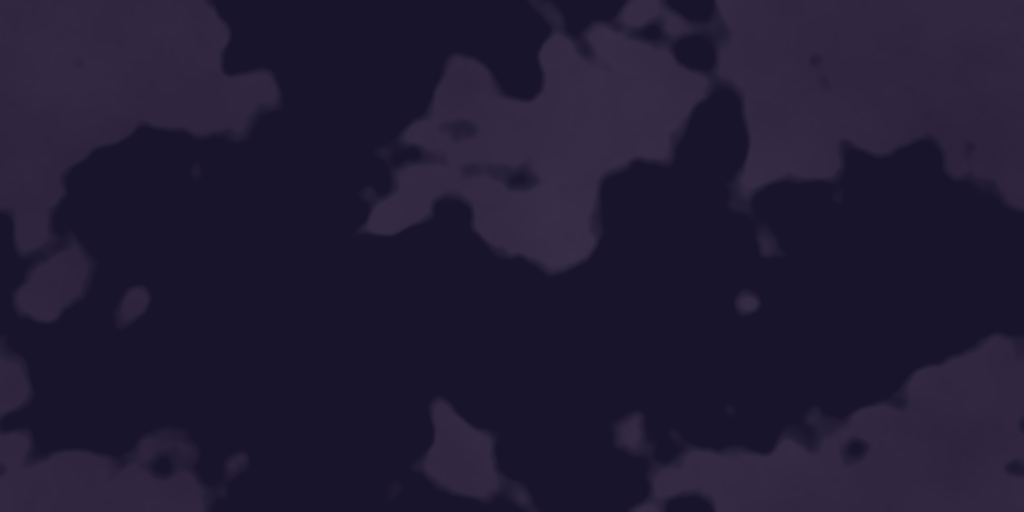
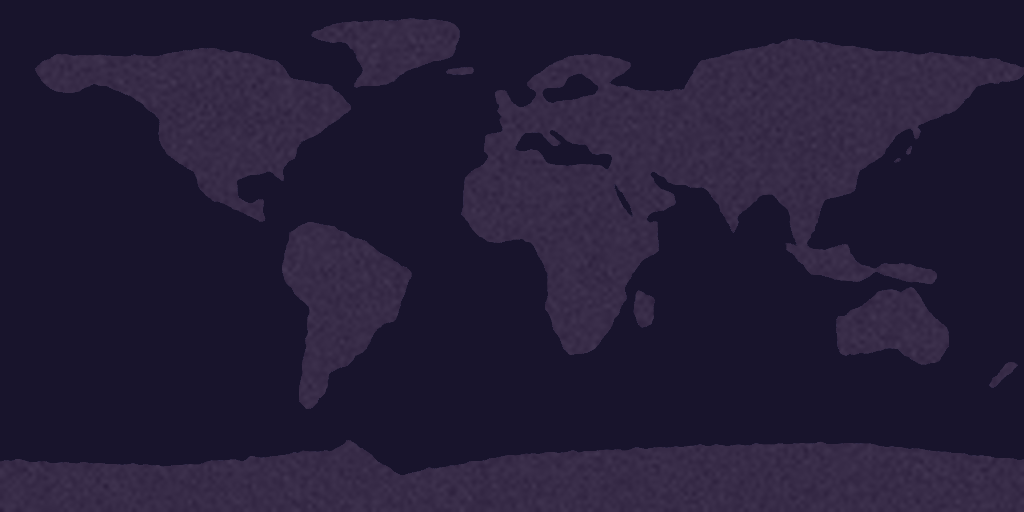
Jordgloben med tydligare, ungefärliga kustlinjer
Claude-Session: https://claude.ai/code/session_01KKpdg1kibzxrmRUHzSLNaJ

diff --git a/index.html b/index.html
@@ -155,7 +155,7 @@
     <a href="#kontakt" class="toggle-kontakt" aria-controls="kontakt" aria-expanded="false">Kontakt</a>
   </nav>
 
-  <script src="assets/earth.js?v=4" defer></script>
+  <script src="assets/earth.js?v=5" defer></script>
   <script src="assets/sparkle.js?v=11" defer></script>
   <script>
     // Appar och illustrationer fälls ut först när man trycker i menyn (en i taget)

diff --git a/assets/earth.js b/assets/earth.js
@@ -58,5 +58,5 @@
     draw();
     if (!still) setInterval(draw, 60);   // ca 16 bilder/s, oberoende av andra animationer
   };
-  img.src = 'assets/img/jord.png?v=4';
+  img.src = 'assets/img/jord.png?v=5';
 })();
